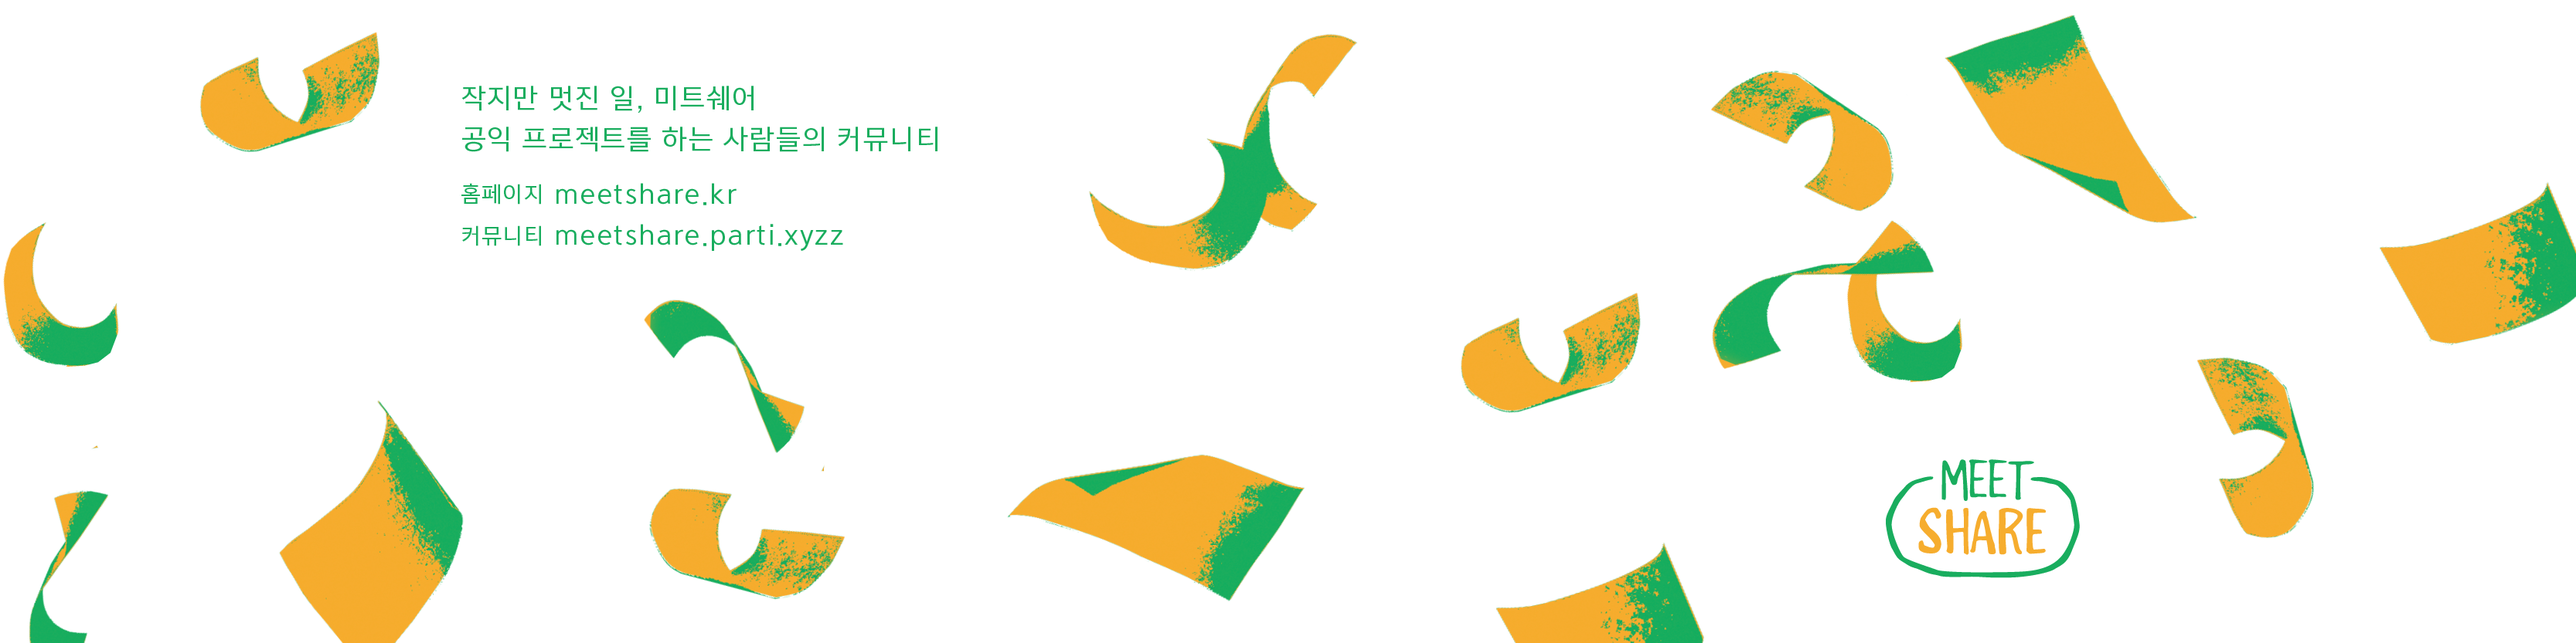
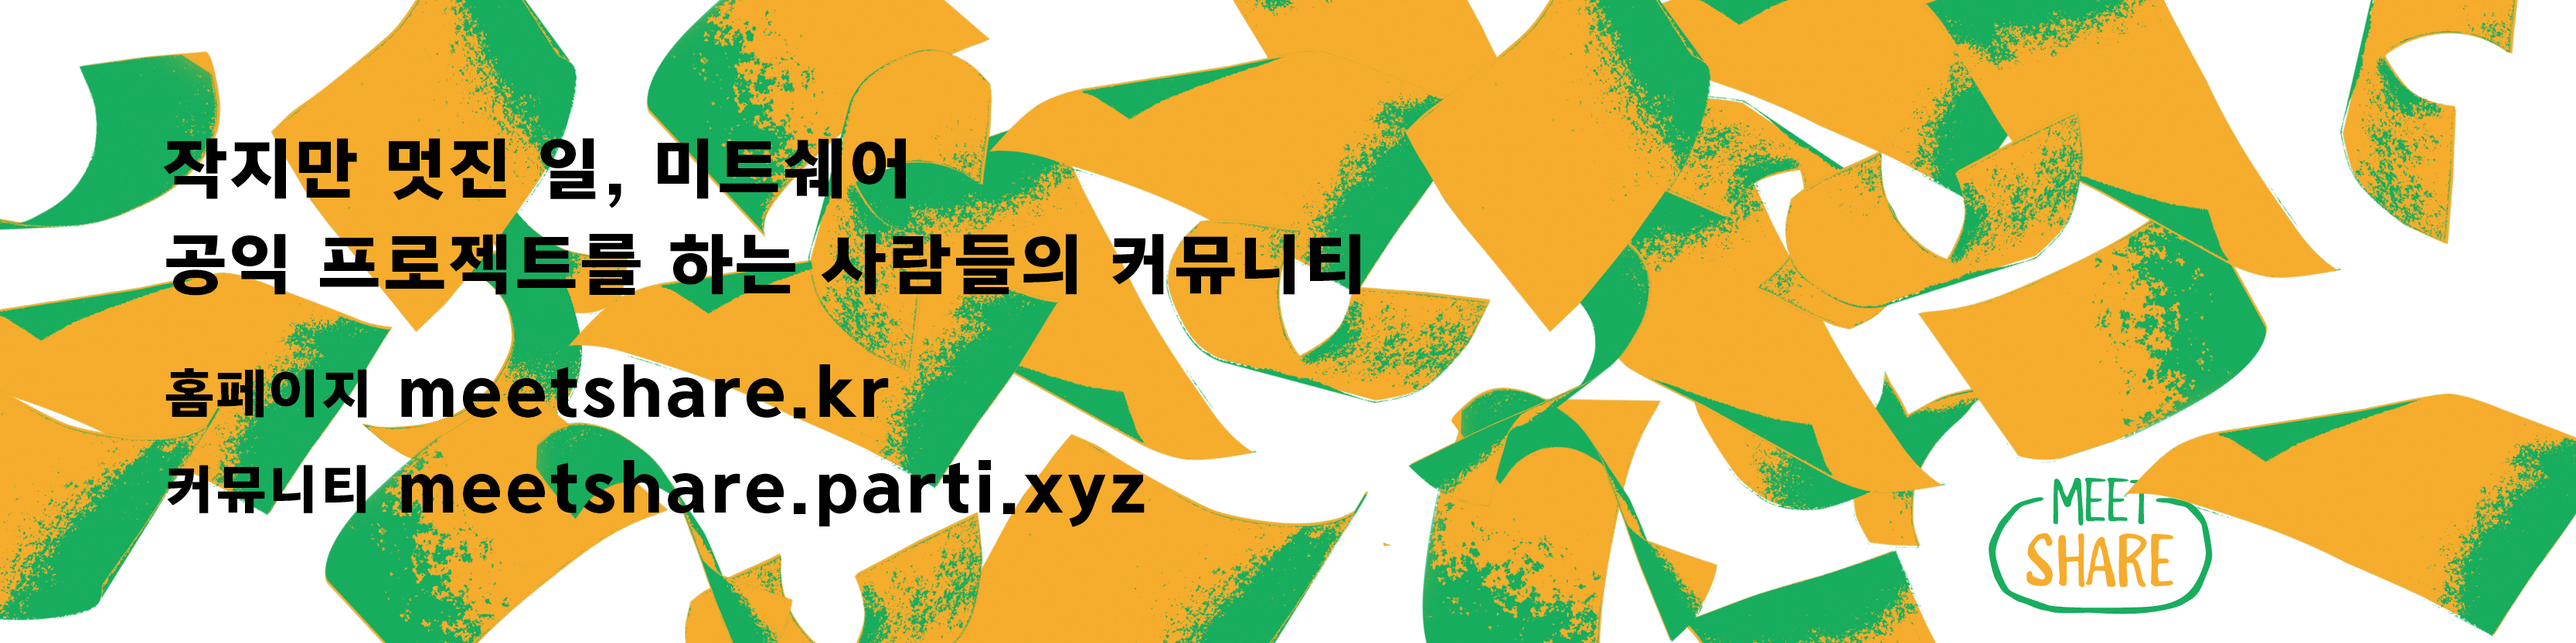
미트쉐어 키비주얼을 바꿉니다

diff --git a/app/assets/stylesheets/groups/meetshare_default.scss b/app/assets/stylesheets/groups/meetshare_default.scss
@@ -10,3 +10,14 @@ section#home {
   height: 20px;
   width: auto;
 }
+
+body.in-group #group-key-visual-bg {
+  height: 345px;
+  background-position: bottom;
+  @media (max-width: $screen-md-max) {
+    height: 270px;
+  }
+  @media (max-width: $screen-xs-max) {
+    height: 0;
+  }
+}

diff --git a/app/assets/stylesheets/components/_groups.scss b/app/assets/stylesheets/components/_groups.scss
@@ -29,7 +29,7 @@ body.in-group {
     #group-key-visual-bg {
       height: 500px;
       background-position: center;
-      background-repeat: none;
+      background-repeat: no-repeat;
       background-size: cover;
     }
 
